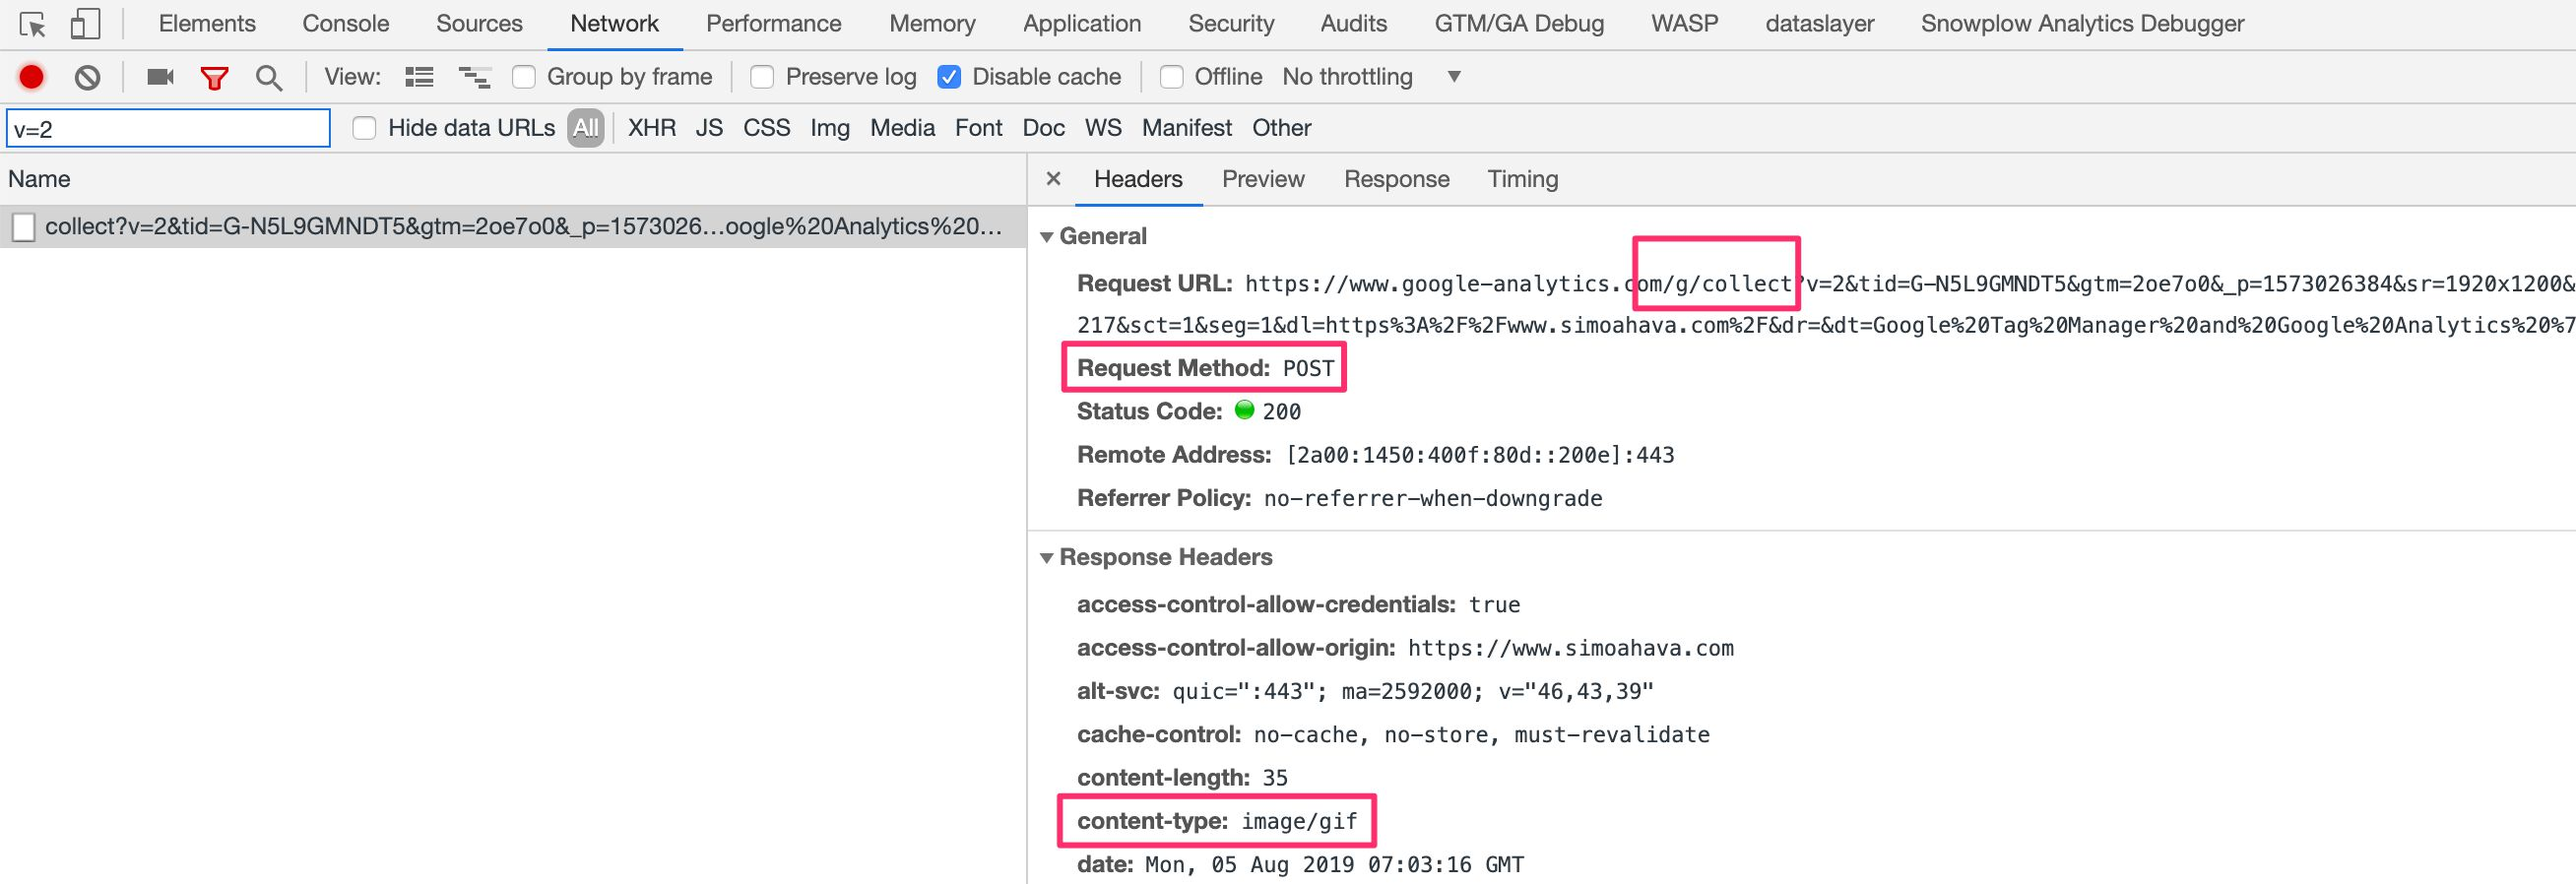
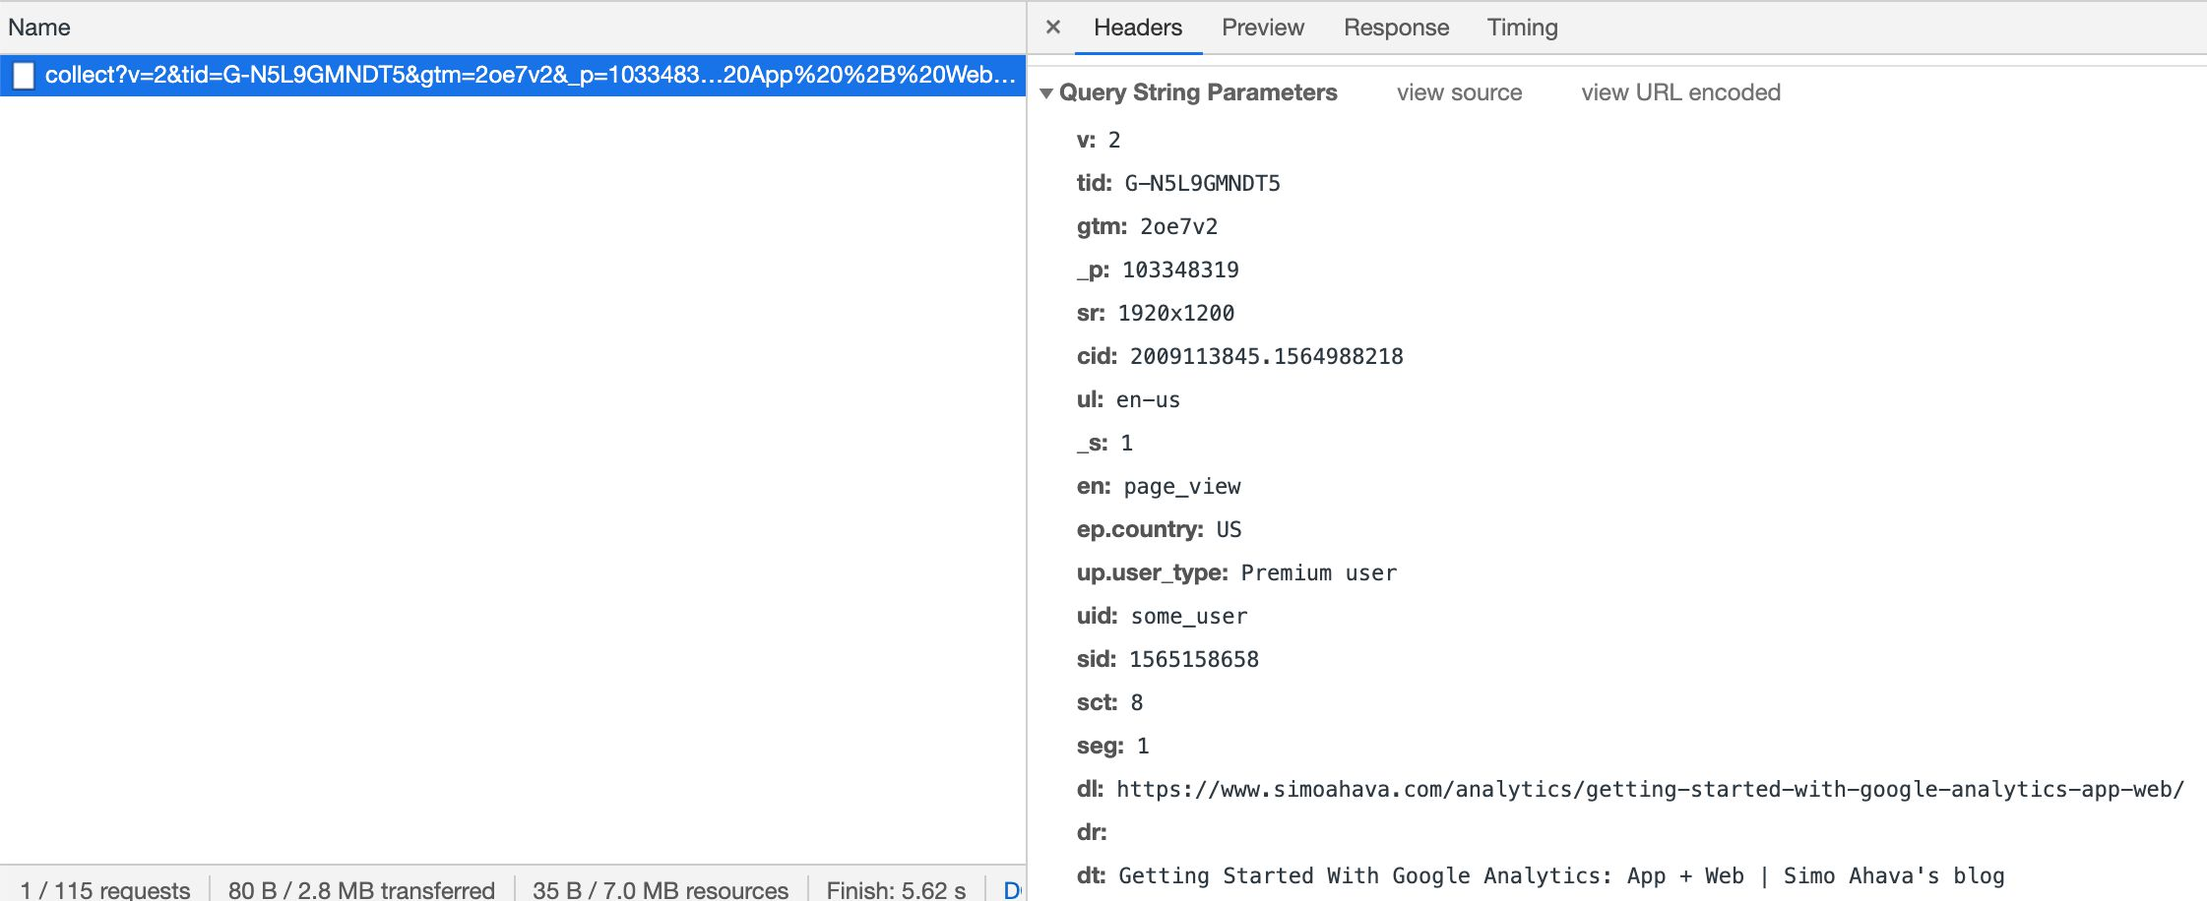
Publish update to app+web

Changed region(s): [[0.0, 0.0, 1.0, 0.8419], [0.0, 0.8731, 0.9991, 1.0]]

diff --git a/amp/analytics/getting-started-with-google-analytics-app-web/index.html b/amp/analytics/getting-started-with-google-analytics-app-web/index.html
@@ -124,7 +124,7 @@
 
 <meta itemprop="datePublished" content="2019-08-05T09:07:18&#43;03:00" />
 <meta itemprop="dateModified" content="2019-08-05T09:07:18&#43;03:00" />
-<meta itemprop="wordCount" content="3399">
+<meta itemprop="wordCount" content="3670">
 
 
 
@@ -941,13 +941,13 @@ on
 
 <li><p>No way to distinguish between automatically collected, recommended, and custom events in the reporting UI.</p></li>
 
-<li><p>No way to set user properties in the GTM tags.</p></li>
+<li><p><del>No way to set user properties in the GTM tags.</del> <strong>UPDATE</strong>: You <strong>can</strong> set User Properties, <a href="#set-user-properties">see below</a>.</p></li>
 
-<li><p>No way to send the <code>items</code> array (or any other multi-dimensional object) with the hit to Google Analytics when using GTM.</p></li>
+<li><p>No way to send the <code>items</code> array (or any other multi-dimensional object) as an event parameter to Google Analytics when using GTM.</p></li>
 
 <li><p>Setting persistent values in the configuration tag in GTM did not seem to work.</p></li>
 
-<li><p><del>No way to upgrade an existing Firebase Analytics property to an App + Web property.</del> <strong>UPDATE</strong>: Looks like <a href="https://support.google.com/analytics/answer/9289234#upgrading">this support doc</a> implies that upgrade is already possible, and some users have reported that they&rsquo;ve been able to do this.</p></li>
+<li><p><del>No way to upgrade an existing Firebase Analytics property to an App + Web property.</del> <strong>UPDATE</strong>: You can upgrade existing Firebase Analytics properties per <a href="https://support.google.com/analytics/answer/9289234#upgrading">this support doc</a>. When you open the property in Google Analytics (assuming you&rsquo;ve linked the property in Google Analytics), you&rsquo;ll see a blue banner in the top of the screen prompting you to upgrade.</p></li>
 </ul>
 
 <p>Be sure to follow the <a href="https://blog.google/products/marketingplatform/analytics/">official blog</a> as well as <a href="https://www.kristaseiden.com/">Krista</a>, as they will be your go-to channels for more information including releases that address the concerns listed in this chapter.</p>
@@ -1171,7 +1171,58 @@ on
 
 <p>According to <a href="https://developers.google.cn/analytics/devguides/collection/app-web/persistent-values">the documentation</a>, you should be able to define any event parameters in the <strong>Fields to set</strong> of the configuration tag, if you want those event parameters to be sent with every subsequent hit that uses the same Measurement ID. Unfortunately, at the time of writing this does not seem to work.</p>
 
-<p>Neither does there seem to be an option to send <a href="https://developers.google.cn/analytics/devguides/collection/app-web/tag-guide#user_properties">user properties</a>, so it looks like we&rsquo;re waiting for updates to the template for those, too.</p>
+<p><del>Neither does there seem to be an option to send <a href="https://developers.google.cn/analytics/devguides/collection/app-web/tag-guide#user_properties">user properties</a>, so it looks like we&rsquo;re waiting for updates to the template for those, too.</del></p>
+
+<h3 id="set-user-properties">Set user properties</h3>
+
+<p>To set user properties, you first need to <a href="https://developers.google.cn/analytics/devguides/collection/app-web/tag-guide#user_properties">create them</a> in the reporting UI.</p>
+
+
+
+    <a href="https://www.simoahava.com/amp/images/2019/08/user-properties.jpg" title="Create user property">
+  
+    <amp-img src="https://www.simoahava.com/amp/images/2019/08/user-properties.jpg" layout="responsive" alt="Create user property" height="1370" width="3354"></amp-img>
+  
+    </a>
+  
+
+
+<p>Next, in your configuration, go to <strong>Fields to Set</strong>, and add a new field. The name of the field needs to be <code>user_properties</code>.</p>
+
+
+
+    <a href="https://www.simoahava.com/amp/images/2019/08/user-properties-in-tag.jpg" title="User properties in tag">
+  
+    <amp-img src="https://www.simoahava.com/amp/images/2019/08/user-properties-in-tag.jpg" layout="responsive" alt="User properties in tag" height="380" width="1762"></amp-img>
+  
+    </a>
+  
+
+
+<p>As the <strong>value</strong> of the field, you need to use a Custom JavaScript variable (or a custom variable template) that <strong>returns an object</strong>, where each key of the object corresponds to a User Property name you created in the reporting UI, and the value is what you want to send as the user property in question.</p>
+
+<p>For example, to set the <code>user_type</code> property (see the screenshot above), I can create a Custom JavaScript variable that looks like this:</p>
+
+<div class="highlight"><pre class="chroma"><code class="language-javascript" data-lang="javascript"><span class="kd">function</span><span class="p">()</span> <span class="p">{</span>
+  <span class="k">return</span> <span class="p">{</span>
+    <span class="nx">user_type</span><span class="o">:</span> <span class="s1">&#39;Premium user&#39;</span>
+  <span class="p">};</span>
+<span class="p">}</span>
+</code></pre></div>
+
+<p>Then you need to add this variable as the value of the <code>user_properties</code> field in the configuration tag.</p>
+
+<p>An <strong>alternate method</strong> is to use a custom variable template (see <a href="https://www.simoahava.com/amp/analytics/custom-templates-guide-for-google-tag-manager/">my guide</a> if you are unsure what custom templates are). <a href="https://www.gtmtemplates.com/template/5672749318012928/user-properties-for-app-web">Here&rsquo;s a template</a> I created for returning a user properties object. You can use it to create a variable where you set the individual user property keys and values, and then set <em>that</em> variable as the value of the <code>user_properties</code> key in the configuration tag.</p>
+
+
+
+    <a href="https://www.simoahava.com/amp/images/2019/08/user-properties-template.jpg" title="User Properties template">
+  
+    <amp-img src="https://www.simoahava.com/amp/images/2019/08/user-properties-template.jpg" layout="responsive" alt="User Properties template" height="948" width="1860"></amp-img>
+  
+    </a>
+  
+
 
 <p>Once you&rsquo;ve created a configuration tag, set it to fire on the <strong>All Pages</strong> trigger and enter preview mode. Let&rsquo;s take a look at how this new measurement model works on the website!</p>
 
@@ -1203,7 +1254,7 @@ on
 
     <a href="https://www.simoahava.com/amp/images/2019/08/collect-request.jpg" title="Collect request">
   
-    <amp-img src="https://www.simoahava.com/amp/images/2019/08/collect-request.jpg" layout="responsive" alt="Collect request" height="898" width="2616"></amp-img>
+    <amp-img src="https://www.simoahava.com/amp/images/2019/08/collect-request.jpg" layout="responsive" alt="Collect request" height="916" width="2242"></amp-img>
   
     </a>
   
@@ -1242,6 +1293,8 @@ on
 <p>There is no longer a &ldquo;Hit Type&rdquo; dimension, but rather the <strong>en</strong> parameter (event name) is used to distinguish different types of hits from each other. This is a major difference to Universal Analytics, as in GAv2 you have one single event stream, where the event parameters you send with the event name determine how the data shows up in the reports.</p>
 
 <p><strong>Event parameters</strong> are prefixed with <code>ep.</code> or <code>epn.</code> for text parameters and number parameters, respectively. In the screenshot, I&rsquo;ve created an event parameter named <code>country</code> and set its value to <code>US</code>.</p>
+
+<p><strong>User Properties</strong> are prefixed with <code>up.</code> or <code>upn.</code> for user properties in text or number format, respectively. The screenshot shows a single text user property named <code>user_type</code> set to value <code>Premium user</code>.</p>
 
 <p>Finally, the <code>sid</code> parameter seems to contain the timestamp when the current session started (taken from the <strong>_ga_MEASUREMENT-ID</strong> cookie).</p>
 

diff --git a/analytics/getting-started-with-google-analytics-app-web/index.html b/analytics/getting-started-with-google-analytics-app-web/index.html
@@ -389,13 +389,13 @@
 
 <li><p>No way to distinguish between automatically collected, recommended, and custom events in the reporting UI.</p></li>
 
-<li><p>No way to set user properties in the GTM tags.</p></li>
+<li><p><del>No way to set user properties in the GTM tags.</del> <strong>UPDATE</strong>: You <strong>can</strong> set User Properties, <a href="#set-user-properties">see below</a>.</p></li>
 
-<li><p>No way to send the <code>items</code> array (or any other multi-dimensional object) with the hit to Google Analytics when using GTM.</p></li>
+<li><p>No way to send the <code>items</code> array (or any other multi-dimensional object) as an event parameter to Google Analytics when using GTM.</p></li>
 
 <li><p>Setting persistent values in the configuration tag in GTM did not seem to work.</p></li>
 
-<li><p><del>No way to upgrade an existing Firebase Analytics property to an App + Web property.</del> <strong>UPDATE</strong>: Looks like <a href="https://support.google.com/analytics/answer/9289234#upgrading">this support doc</a> implies that upgrade is already possible, and some users have reported that they&rsquo;ve been able to do this.</p></li>
+<li><p><del>No way to upgrade an existing Firebase Analytics property to an App + Web property.</del> <strong>UPDATE</strong>: You can upgrade existing Firebase Analytics properties per <a href="https://support.google.com/analytics/answer/9289234#upgrading">this support doc</a>. When you open the property in Google Analytics (assuming you&rsquo;ve linked the property in Google Analytics), you&rsquo;ll see a blue banner in the top of the screen prompting you to upgrade.</p></li>
 </ul>
 
 <p>Be sure to follow the <a href="https://blog.google/products/marketingplatform/analytics/">official blog</a> as well as <a href="https://www.kristaseiden.com/">Krista</a>, as they will be your go-to channels for more information including releases that address the concerns listed in this chapter.</p>
@@ -691,7 +691,76 @@
 
 <p>According to <a href="https://developers.google.cn/analytics/devguides/collection/app-web/persistent-values">the documentation</a>, you should be able to define any event parameters in the <strong>Fields to set</strong> of the configuration tag, if you want those event parameters to be sent with every subsequent hit that uses the same Measurement ID. Unfortunately, at the time of writing this does not seem to work.</p>
 
-<p>Neither does there seem to be an option to send <a href="https://developers.google.cn/analytics/devguides/collection/app-web/tag-guide#user_properties">user properties</a>, so it looks like we&rsquo;re waiting for updates to the template for those, too.</p>
+<p><del>Neither does there seem to be an option to send <a href="https://developers.google.cn/analytics/devguides/collection/app-web/tag-guide#user_properties">user properties</a>, so it looks like we&rsquo;re waiting for updates to the template for those, too.</del></p>
+
+<h3 id="set-user-properties">Set user properties</h3>
+
+<p>To set user properties, you first need to <a href="https://developers.google.cn/analytics/devguides/collection/app-web/tag-guide#user_properties">create them</a> in the reporting UI.</p>
+
+
+
+
+<div class="figure nocaption" >
+  
+    <a href="https://www.simoahava.com/images/2019/08/user-properties.jpg" title="Create user property">
+  
+    <img class="fig-img lazy" data-src="https://www.simoahava.com/images/2019/08/user-properties.jpg#ZgotmplZ" alt="Create user property">
+  
+    </a>
+  
+  
+</div>
+
+
+
+<p>Next, in your configuration, go to <strong>Fields to Set</strong>, and add a new field. The name of the field needs to be <code>user_properties</code>.</p>
+
+
+
+
+<div class="figure nocaption" >
+  
+    <a href="https://www.simoahava.com/images/2019/08/user-properties-in-tag.jpg" title="User properties in tag">
+  
+    <img class="fig-img lazy" data-src="https://www.simoahava.com/images/2019/08/user-properties-in-tag.jpg#ZgotmplZ" alt="User properties in tag">
+  
+    </a>
+  
+  
+</div>
+
+
+
+<p>As the <strong>value</strong> of the field, you need to use a Custom JavaScript variable (or a custom variable template) that <strong>returns an object</strong>, where each key of the object corresponds to a User Property name you created in the reporting UI, and the value is what you want to send as the user property in question.</p>
+
+<p>For example, to set the <code>user_type</code> property (see the screenshot above), I can create a Custom JavaScript variable that looks like this:</p>
+
+<div class="highlight"><pre style="color:#f8f8f2;background-color:#272822;-moz-tab-size:4;-o-tab-size:4;tab-size:4"><code class="language-javascript" data-lang="javascript"><span style="color:#66d9ef">function</span>() {
+  <span style="color:#66d9ef">return</span> {
+    <span style="color:#a6e22e">user_type</span><span style="color:#f92672">:</span> <span style="color:#e6db74">&#39;Premium user&#39;</span>
+  };
+}
+</code></pre></div>
+
+<p>Then you need to add this variable as the value of the <code>user_properties</code> field in the configuration tag.</p>
+
+<p>An <strong>alternate method</strong> is to use a custom variable template (see <a href="https://www.simoahava.com/analytics/custom-templates-guide-for-google-tag-manager/">my guide</a> if you are unsure what custom templates are). <a href="https://www.gtmtemplates.com/template/5672749318012928/user-properties-for-app-web">Here&rsquo;s a template</a> I created for returning a user properties object. You can use it to create a variable where you set the individual user property keys and values, and then set <em>that</em> variable as the value of the <code>user_properties</code> key in the configuration tag.</p>
+
+
+
+
+<div class="figure nocaption" >
+  
+    <a href="https://www.simoahava.com/images/2019/08/user-properties-template.jpg" title="User Properties template">
+  
+    <img class="fig-img lazy" data-src="https://www.simoahava.com/images/2019/08/user-properties-template.jpg#ZgotmplZ" alt="User Properties template">
+  
+    </a>
+  
+  
+</div>
+
+
 
 <p>Once you&rsquo;ve created a configuration tag, set it to fire on the <strong>All Pages</strong> trigger and enter preview mode. Let&rsquo;s take a look at how this new measurement model works on the website!</p>
 
@@ -780,6 +849,8 @@
 <p>There is no longer a &ldquo;Hit Type&rdquo; dimension, but rather the <strong>en</strong> parameter (event name) is used to distinguish different types of hits from each other. This is a major difference to Universal Analytics, as in GAv2 you have one single event stream, where the event parameters you send with the event name determine how the data shows up in the reports.</p>
 
 <p><strong>Event parameters</strong> are prefixed with <code>ep.</code> or <code>epn.</code> for text parameters and number parameters, respectively. In the screenshot, I&rsquo;ve created an event parameter named <code>country</code> and set its value to <code>US</code>.</p>
+
+<p><strong>User Properties</strong> are prefixed with <code>up.</code> or <code>upn.</code> for user properties in text or number format, respectively. The screenshot shows a single text user property named <code>user_type</code> set to value <code>Premium user</code>.</p>
 
 <p>Finally, the <code>sid</code> parameter seems to contain the timestamp when the current session started (taken from the <strong>_ga_MEASUREMENT-ID</strong> cookie).</p>
 
